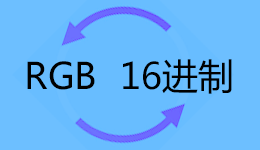
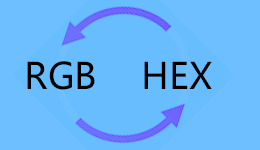
rgb和hex互转页面优化

Changed region(s): [[0.4615, 0.3733, 0.8923, 0.64]]

diff --git a/demo/css_color_conversion/js/lib/fn.js b/demo/css_color_conversion/js/lib/fn.js
@@ -1,25 +1,30 @@
-//匹配颜色值并过滤无效颜色
+//匹配颜色值
 let matchColorValue = function(ColorValue){
-	let match16 = ColorValue.match(/(^#[0-9a-fA-F]{3}$)|(^#[0-9a-fA-F]{6}$)|(^(red|blue|yellow|orange|purple|green|black|white|gray|pink|brown)$)/g);
+	let match16 = ColorValue.match(/(^#[0-9a-fA-F]{3}$)|(^#[0-9a-fA-F]{6}$)/g);
 	let matchRGB = ColorValue.match(/^[rR][gG][bB][\(](\s*(\d|[1-9]\d|1\d\d|2[0-4]\d|25[0-5])\s*,){2}\s*(\d|[1-9]\d|1\d\d|2[0-4]\d|25[0-5])\s*[\)]$/g);
 	// let matchRGBA = ColorValue.match(/^[rR][gG][bB][aA][\(](\s*(\d|[1-9]\d|1\d\d|2[0-4]\d|25[0-5])\s*,){3}\s*((0?\.[1-9]{1,2})|[01])\s*[\)]$/g);
 	if (match16) { 
-		return 'is16'
+		return 'isHEX'
     }
     else if(matchRGB){
 		return 'isRGB'
     }
 }
-//rgb转16进制
-let RGB2Hex = function(RGB) {
-	let rgb = RGB.split(',');
-	let r = parseInt(rgb[0].split('(')[1]);
-	let g = parseInt(rgb[1]);
-	let b = parseInt(rgb[2].split(')')[0]);
-	let hex = "#" + ((1 << 24) + (r << 16) + (g << 8) + b).toString(16).slice(1);
-	return hex;
+//rgb转hex
+let RGB2Hex = function(rgb) {
+    let color = rgb.replace(/(?:\(|\)|rgb|RGB)*/g, "").split(",");
+    let strHex = "#";
+    for (let i=0; i<color.length; i++) {
+        let hex = Number(color[i]).toString(16);
+        if (hex.length < 2) {
+            hex = '0' + hex;
+        }
+        strHex += hex;
+    }
+    return strHex;
 }
-//16进制转rgb
+
+//hex转rgb
 let Hex2RGB = function(hex){
     let color = hex.toLowerCase();
 	// 处理三位的颜色值

diff --git a/index.html b/index.html
@@ -28,15 +28,15 @@
                 </a>
             </li>
             <li class="demo__li">
-                <a href="demo/userAgent/index.html" target="_blank" class="li__a">
-                    <img src="img/img3.png" alt="">
-                    <h2 class="li__title">查看userAgent</h2>
+                <a href="demo/css_color_conversion/index.html" target="_blank" class="li__a">
+                    <img src="img/img4.png?v=1" alt="">
+                    <h2 class="li__title">rba和hex单位互转</h2>
                 </a>
             </li>
             <li class="demo__li">
-                <a href="demo/css_color_conversion/index.html" target="_blank" class="li__a">
-                    <img src="img/img4.png" alt="">
-                    <h2 class="li__title">rba和16进制单位互转</h2>
+                <a href="demo/userAgent/index.html" target="_blank" class="li__a">
+                    <img src="img/img3.png" alt="">
+                    <h2 class="li__title">查看userAgent</h2>
                 </a>
             </li>
         </ul>

diff --git a/demo/css_color_conversion/index.html b/demo/css_color_conversion/index.html
@@ -2,14 +2,14 @@
 <html>
 <head>
 <meta http-equiv="Content-Type" content="text/html; charset=utf-8" />
-<title>css三角生成工具</title>
+<title>rba和hex单位互转</title>
 <link rel="stylesheet" href="css/index.css">
 </head>
 <body>
 <div class="wrap">
 	<div class="form">
 		<div class="form-title">
-			<h1>rba和16进制单位互转</h1>
+			<h1>rba和hex单位互转</h1>
 		</div>
 		<div class="form-main">
 			<div class="form-line">
@@ -20,8 +20,8 @@
 				>
 					<input 
 						type="text" 
-						class="text" 
-						placeholder="如rgb(255,255,255)或者#FFFFFF" 
+						class="text"
+						placeholder="如rgb(255,255,255)或者#FFFFFF"
 						v-model.trim="colorValue" 
 						@blur.prevent="blurColorFn"
 					>

diff --git a/demo/css_color_conversion/js/index.js b/demo/css_color_conversion/js/index.js
@@ -24,7 +24,7 @@ var app = new Vue({
 			let colorValue = that.colorValue;
 
 			//检查色值
-			if(matchColorValue(colorValue) === "is16"){
+			if(matchColorValue(colorValue) === "isHEX"){
 				that.resultValue = Hex2RGB(colorValue)
 				that.isShowCopyBtn = true
 			}
